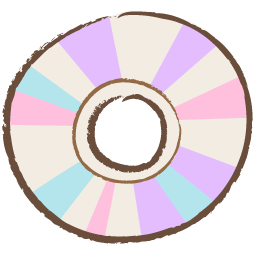
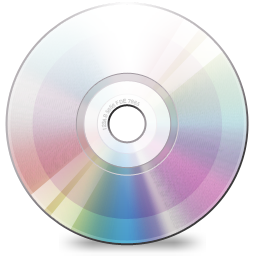
调整详情页

diff --git a/src/view/Detail.tsx b/src/view/Detail.tsx
@@ -86,8 +86,8 @@ function Detail() {
     return <Card className="h-full">
         <div className="h-full box-border flex p-1">
             <div className="h-full flex flex-col min-w-40 max-w-40">
-                <Card className="box-border p-1" style={{ backgroundColor: "var(--THEME_COLOR)" }}>
-                    <JLImage className="w-full min-h-48 max-h-48" lodimg={''} src={data.left.img} />
+                <Card className="box-border p-1 h-48" style={{ backgroundColor: "var(--THEME_COLOR)" }}>
+                    <JLImage className="w-full h-180" lodimg={''} src={data.left.img} />
                 </Card>
                 {data.right.tags.length == 0
                     ? <JLLoading icon={<Image width={60} srcSet={icon} preview={false} />} /> :
@@ -110,7 +110,7 @@ function Detail() {
                 }
             </div>
             <Card className="h-full w-full box-border overflow-y-auto shadow-md px-1 ml-1">
-                {data.history_item}
+                {/* {data.history_item} */}
                 {data.right.tags.length == 0
                     ? <JLLoading icon={<Image width={60} srcSet={icon} preview={false} />} /> :
                     <Space className="pb-2" size={4} direction={"vertical"} align="start">
@@ -130,7 +130,7 @@ function Detail() {
                                 </Card>
                             })}
                         </div>
-                        <div className=" font-bold">简介：</div>
+                        <div className="font-bold">简介：</div>
                         <span className="text-blueGray font_two">{data.right.desc}</span>
                         {data.right.volumes.map(item => {
                             return <div key={item.list[0].href}>

diff --git a/src/components/JL_Image.tsx b/src/components/JL_Image.tsx
@@ -1,6 +1,6 @@
 import { Image } from "antd";
 import preview from "../assets/cd.png";
-import { useState } from "react";
+import { useEffect, useState } from "react";
 const lodimg_ = "/loding/4.gif";
 
 type JLImage = {
@@ -12,12 +12,13 @@ type JLImage = {
 
 function JLImage({ src, className, lodimg = lodimg_, errimg = preview }: JLImage) {
     const [lod_err, setLoderr] = useState(false);
+    useEffect(() => { setLoderr(false) });
 
     return lod_err ?
-        <div className="w-full h-full"></div>
+        <div className="w-full h-full min-height-45"></div>
         : <Image preview={false} src={src}
             className={className}
-            // fallback={errimg}
+            fallback={errimg}
             onErrorCapture={() => setLoderr(true)}
             placeholder={
                 <Image preview={false} srcSet={lodimg} />
